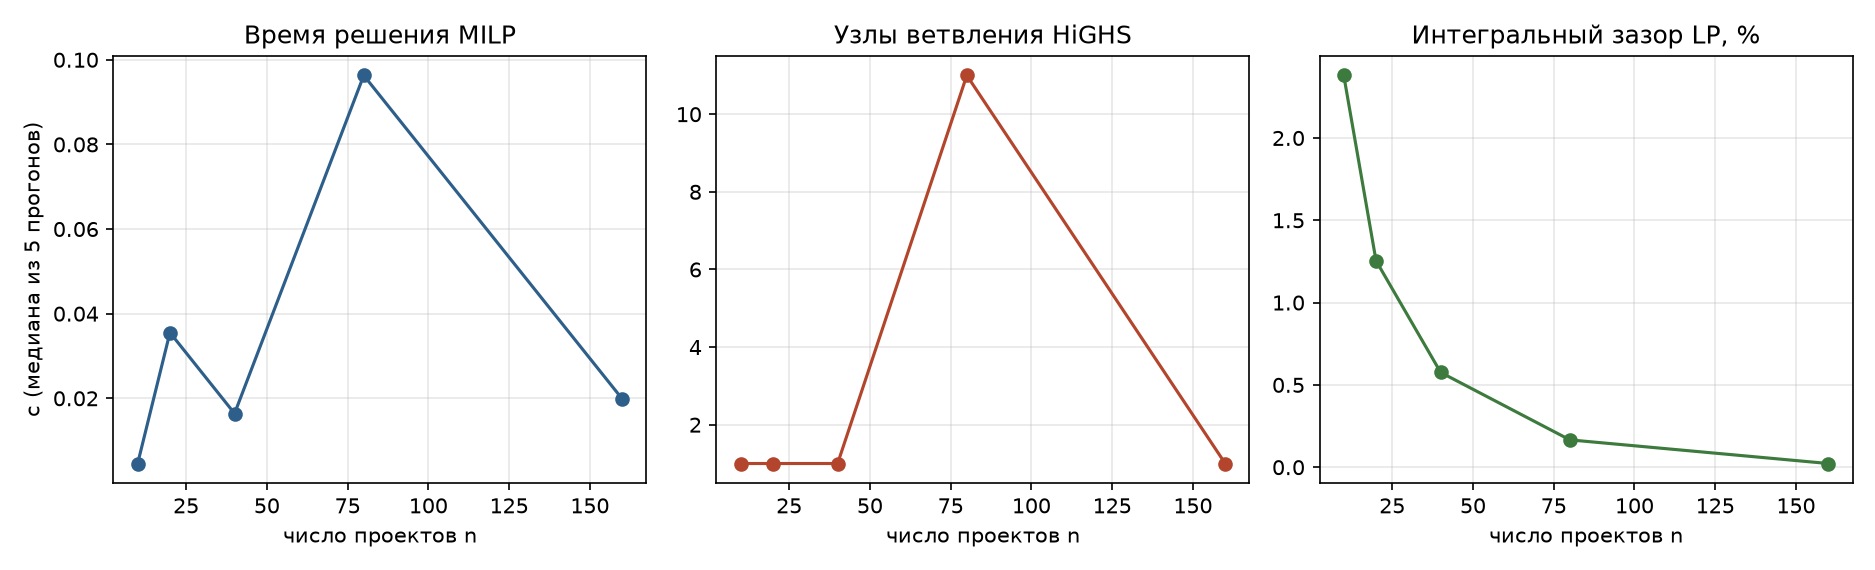
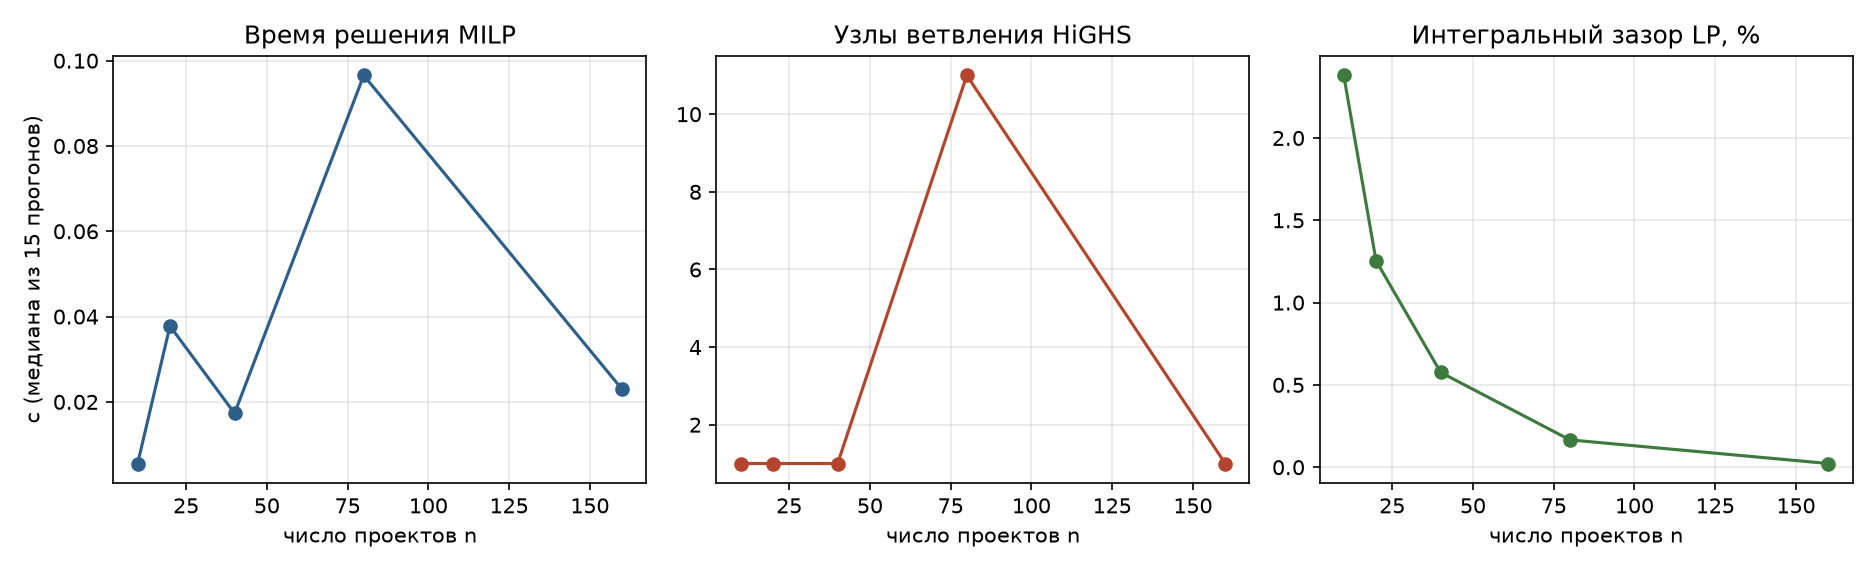
Исправления: жадная эвристика, сценарии, логи

diff --git a/main.py b/main.py
@@ -6,6 +6,7 @@
 Все артефакты пишутся в data/ и output/.
 """
 import csv
+import glob
 import os
 
 import data_gen
@@ -25,11 +26,14 @@ def write_csv(path, rows, fieldnames):
 def main():
     os.makedirs('data', exist_ok=True)
     os.makedirs('output', exist_ok=True)
+    # логи солвера пишутся в режиме 'a': очищаем их, чтобы не росли между запусками
+    for f in glob.glob('output/solver_*.log'):
+        os.remove(f)
 
     # --- данные варианта (seed 10116, воспроизводимо) ----------------------
-    d = data_gen.generate()
-    data_gen.save(d)
-    print(f"[данные] n={d['n']}, бюджет B={d['budget']:.0f} млн руб., "
+    data_gen.save(data_gen.generate())       # data/ — артефакт seed (идемпотентно)
+    d = data_gen.load()                      # конвейер читает вариант из CSV/JSON:
+    print(f"[данные] n={d['n']}, бюджет B={d['budget']:.0f} млн руб., "  # правка данных реально влияет
           f"платформа F={d['platform_cost']:.0f} млн руб., G={d['group']}, "
           f"зависимости={d['deps']}")
 
@@ -38,6 +42,8 @@ def main():
         d, log_milp='output/solver_base.log', log_lp='output/solver_lp_base.log')
     lp, mi = e1['lp'], e1['milp']
     print(f"[MILP] статус: {mi['status_str']}; цель = {mi['obj']:.4f} млн руб.; "
+          f"двойственная граница = {mi['dual_bound']:.4f} (primal = dual => "
+          f"глобальный оптимум); gap солвера = {mi['solver_gap']:.2%}; "
           f"узлов ветвления = {mi['node_count']}; время = {mi['time']:.3f} с")
     print(f"[LP  ] цель = {lp['obj']:.4f} млн руб.; дробные переменные: "
           f"{', '.join(e1['fractional']) or '—'}; y* = {e1['y_lp']:.3f}; "
@@ -51,6 +57,14 @@ def main():
     print(report)
     with open('output/verification.txt', 'w', encoding='utf-8') as f:
         f.write(report + '\n')
+
+    # --- контрольный полный перебор 2^16 (независимое подтверждение) -------
+    bf = experiments.exp_bruteforce(d, mi)
+    write_csv('output/exp_bruteforce.csv', [bf],
+              ['obj_mln', 'n_optima', 'matches_milp'])
+    print(f"[перебор] полный перебор 2^{d['n'] + 1} комбинаций: оптимум "
+          f"{bf['obj_mln']:.4f} млн руб., оптимумов {bf['n_optima']}, "
+          f"совпадает с MILP: {bf['matches_milp']}")
 
     # --- таблица решения ----------------------------------------------------
     with open('output/solution.csv', 'w', newline='', encoding='utf-8') as f:
@@ -66,13 +80,13 @@ def main():
     scen = experiments.exp3_scenarios(d, log_path='output/solver_scenarios.log')
     write_csv('output/scenarios.csv', scen,
               ['scenario', 'budget_mln', 'chosen', 'y', 'n_chosen', 'spent_mln',
-               'obj_mln', 'lp_obj_mln', 'gap_pct', 'nodes', 'time_s'])
+               'obj_mln', 'lp_obj_mln', 'gap_pct', 'ok', 'nodes', 'time_s'])
     plots.plot_scenarios(scen)
     print("[сценарии] записано output/scenarios.csv + output/scenarios.png")
     for r in scen:
         print(f"    {r['scenario']}: выбрано [{r['chosen']}], y={r['y']}, "
               f"цель {r['obj_mln']:.1f} (LP {r['lp_obj_mln']:.1f}, "
-              f"gap {r['gap_pct']:.2f}%)")
+              f"gap {r['gap_pct']:.2f}%), проверка: {'OK' if r['ok'] else 'FAIL'}")
 
     # --- эксперимент 4: масштабирование -------------------------------------
     scale = experiments.exp4_scaling()

diff --git a/experiments.py b/experiments.py
@@ -46,13 +46,12 @@ def exp3_scenarios(d, log_path=None):
         m = model.build(d, budget=b)
         lp = solve.solve_lp(m)
         mi = solve.solve_milp(m, log_path=log_path)
+        v = verify.verify(d, m, mi['x'])   # независимая проверка каждого сценария
         chosen = chosen_set(m, mi['x'])
-        spent = float(np.dot(d['cost'], np.round(mi['x'][:m['n']]))
-                     + d['platform_cost'] * round(mi['x'][-1]))
         rows.append(dict(scenario=name, budget_mln=b, chosen=', '.join(map(str, chosen)),
                          y=int(round(mi['x'][-1])), n_chosen=len(chosen),
-                         spent_mln=spent, obj_mln=mi['obj'], lp_obj_mln=lp['obj'],
-                         gap_pct=gap_pct(mi['obj'], lp['obj']),
+                         spent_mln=v['spent'], obj_mln=mi['obj'], lp_obj_mln=lp['obj'],
+                         gap_pct=gap_pct(mi['obj'], lp['obj']), ok=v['ok'],
                          nodes=mi['node_count'], time_s=mi['time']))
     return rows
 
@@ -86,7 +85,9 @@ def greedy(d, budget=None):
     n = d['n']
     cost = np.asarray(d['cost'], dtype=float)
     profit = np.asarray(d['profit'], dtype=float)
-    prereq = {i: j for i, j in d['deps']}   # i требует j, 1-нумерация
+    prereq = {}                            # i -> список пререквизитов (у проекта их может быть несколько)
+    for i, j in d['deps']:
+        prereq.setdefault(i, []).append(j)
     g = set(d['group'])
     F = float(d['platform_cost'])
     b = float(d['budget'] if budget is None else budget)
@@ -104,8 +105,7 @@ def greedy(d, budget=None):
             if k in need:
                 continue
             need.add(k)
-            if k in prereq:
-                stack.append(prereq[k])
+            stack.extend(prereq.get(k, []))
         add = [k for k in need if not x[k - 1]]
         if not add:
             continue
@@ -152,6 +152,37 @@ def exp6_bigm(d):
                          nodes=mi['node_count'], time_s=mi['time'],
                          M_over_budget=big_m / m['budget']))
     return rows
+
+
+# --- контрольный полный перебор (только для базового n=15) ------------------
+
+def exp_bruteforce(d, milp):
+    """Полный перебор всех 2^(n+1) комбинаций: подтверждает оптимум MILP и его
+    единственность независимо от солвера. Практичен только при n=15."""
+    import itertools
+    n = int(d['n'])
+    cost = np.asarray(d['cost'], dtype=float)
+    profit = np.asarray(d['profit'], dtype=float)
+    deps = d['deps']
+    g = d['group']
+    f = float(d['platform_cost'])
+    b = float(d['budget'])
+    best, optima = -1.0, 0
+    for bits in itertools.product((0, 1), repeat=n + 1):
+        x, y = bits[:n], bits[n]
+        if sum(cost[i] * x[i] for i in range(n)) + f * y > b:
+            continue
+        if any(x[i - 1] > x[j - 1] for i, j in deps):
+            continue
+        if sum(x[j - 1] for j in g) > len(g) * y:
+            continue
+        obj = sum(profit[i] * x[i] for i in range(n))
+        if obj > best + 1e-9:
+            best, optima = obj, 1
+        elif abs(obj - best) <= 1e-9:
+            optima += 1
+    return dict(obj_mln=best, n_optima=optima,
+                matches_milp=bool(abs(best - milp['obj']) < 1e-6))
 
 
 # --- доп. задание: две формулировки по силе LP-релаксации -------------------

diff --git a/plots.py b/plots.py
@@ -47,7 +47,7 @@ def plot_scaling(rows, path='output/scaling.png'):
     fig, axes = plt.subplots(1, 3, figsize=(12.5, 3.8))
     axes[0].plot(ns, t, 'o-', color='#2d5f8a')
     axes[0].set_title('Время решения MILP')
-    axes[0].set_ylabel('с (медиана из 5 прогонов)')
+    axes[0].set_ylabel('с (медиана из 15 прогонов)')
     axes[1].plot(ns, nodes, 'o-', color='#b3452d')
     axes[1].set_title('Узлы ветвления HiGHS')
     axes[2].plot(ns, gaps, 'o-', color='#3d7a3d')
